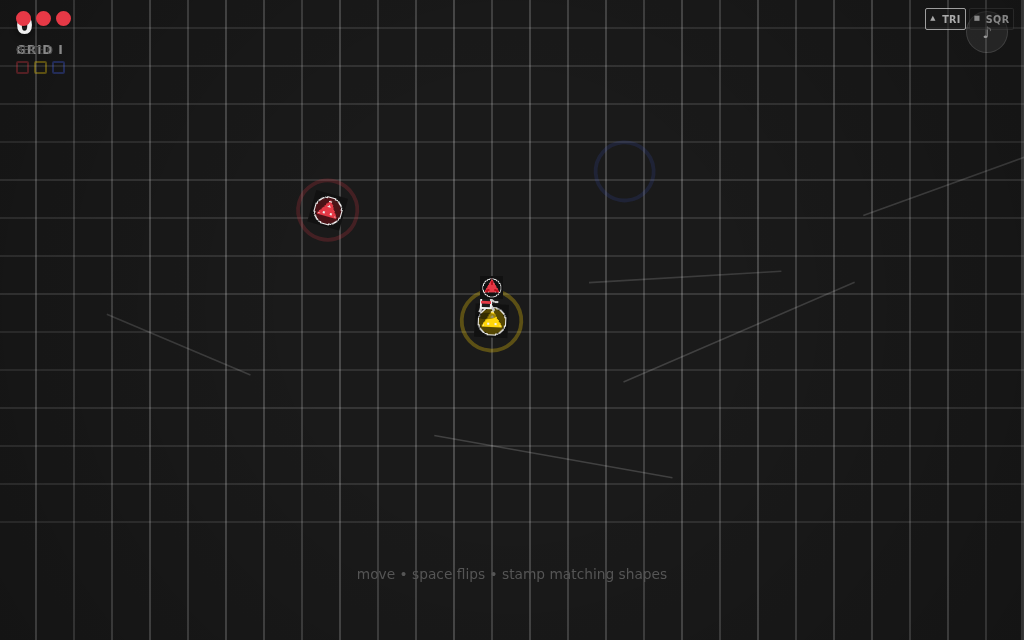
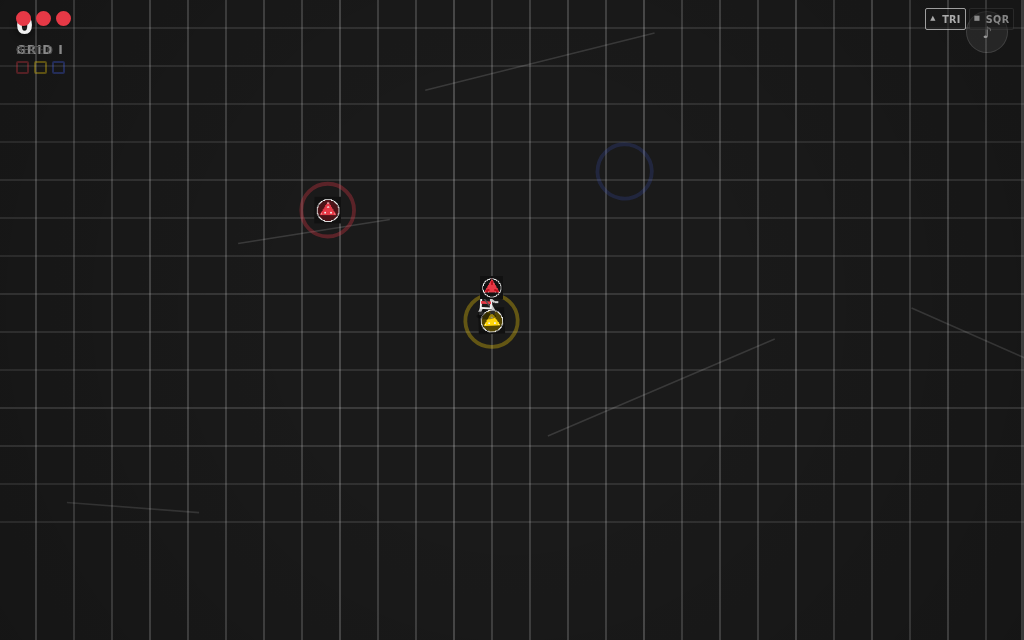
factoryx: embodied player subject + served verification recovery (work-order-1783125296103-7-18)
- Targeted polish to courier (boots, satchel strap, visor) and vignette-before-player for readable separation per vision rubric.
- Added ?autostart harness for active state.
- Fresh verification using real python http.server + chromium on http:// served URL (not file://); 0 game errors; assets exercised; player+nodes focal in screenshots.
- Updated WO context: PREVIEW/VERIFICATION/WORKLOG/ASSET_MANIFEST + new evidence pngs/logs.
- Aligns with WORK_PLAN embodied-player-core-slice; 30-60s taste gate preserved; blocks_usage present.
- GitHub WO branch closeout per instructions.

diff --git a/games/92-triadic-grid-run/index.html b/games/92-triadic-grid-run/index.html
@@ -541,11 +541,12 @@ function drawEmbodiedPlayer(p, toolX, toolY, mode){
   c.fillStyle = 'rgba(0,0,0,0.38)';
   c.beginPath(); c.ellipse(0, 19, 10, 3.2, 0, 0, Math.PI*2); c.fill();
 
-  // legs (posture, stride for run feel; bauhaus geometric)
-  c.strokeStyle = '#c8c8c8'; c.lineWidth = 2.6;
+  // legs (posture, stride for run feel; bauhaus geometric) + grounded boots
+  c.strokeStyle = '#c8c8c8'; c.lineWidth = 2.8;
   const step = Math.sin(legPh)*0.65;
   c.beginPath(); c.moveTo(-1.5,3); c.lineTo(-6-step*3.5,15+step*0.8); c.stroke();
   c.beginPath(); c.moveTo(1.5,3); c.lineTo(7+step*3.5,14-step*0.9); c.stroke();
+  c.fillStyle='#2a2a2a'; c.fillRect(-7.5,14.5,4.5,3.5); c.fillRect(4,13.5,4.5,3.5); // boots
 
   // torso (slight lean, clear silhouette)
   c.fillStyle = '#1c1c1c'; c.strokeStyle='#f4f4f4'; c.lineWidth=1.9;
@@ -553,12 +554,17 @@ function drawEmbodiedPlayer(p, toolX, toolY, mode){
   c.fillRect(-5, -1, 10, 12); c.strokeRect(-5, -1, 10, 12);
   // bauhaus accent band (shows mode)
   c.fillStyle = (mode===TRI ? SHAPE_COL[0] : SHAPE_COL[2]); c.fillRect(-5, 4, 10, 2.8);
+  // courier satchel strap (authored presence, not just primitive)
+  c.strokeStyle = '#555'; c.lineWidth=1.3;
+  c.beginPath(); c.moveTo(-3.5,0); c.lineTo(4,9); c.stroke();
   c.restore();
 
-  // head (geometric courier, bauhaus silhouette)
+  // head (geometric courier, bauhaus silhouette) + visor detail
   c.save(); c.translate(0, -7);
   c.fillStyle = '#0f0f0f'; c.strokeStyle = '#f0f0f0'; c.lineWidth=1.7;
   c.fillRect(-4, -4.5, 8, 7); c.strokeRect(-4,-4.5,8,7);
+  // visor/goggles for courier character
+  c.strokeStyle='#aaa'; c.lineWidth=1.1; c.beginPath(); c.moveTo(-3.2,-1.2); c.lineTo(3.2,-1.2); c.stroke();
   // inner cross for authored construction detail
   c.strokeStyle = '#666'; c.lineWidth=0.8;
   c.beginPath(); c.moveTo(-2,-2.5); c.lineTo(2,-2.5); c.moveTo(0,-3.8); c.lineTo(0,1); c.stroke();
@@ -665,16 +671,16 @@ function render(){
     c.fillText(f.txt, f.x, f.y); c.restore();
   });
 
+  // subtle vignette drawn before player so the embodied subject + nearest nodes stay crisp/readable
+  const gr = c.createRadialGradient(W*0.5,H*0.48, Math.min(W,H)*0.32, W*0.5,H*0.48, Math.max(W,H)*0.68);
+  gr.addColorStop(0,'rgba(0,0,0,0)'); gr.addColorStop(1,'rgba(0,0,0,0.22)');
+  c.fillStyle=gr; c.fillRect(0,0,W,H);
+
   // embodied courier subject (primary presence) + held stamp tool at pointer aim
-  // drawn after nodes so player silhouette stays readable over grid/particles
+  // drawn after nodes/vignette so player silhouette + nearest objectives remain separated and high-contrast
   const toolX = cursor.x, toolY = cursor.y;
   drawEmbodiedPlayer(player, toolX, toolY, stampMode);
   c.restore();
-
-  // subtle vignette for focus (honest, not decoration)
-  const gr = c.createRadialGradient(W*0.5,H*0.48, Math.min(W,H)*0.32, W*0.5,H*0.48, Math.max(W,H)*0.68);
-  gr.addColorStop(0,'rgba(0,0,0,0)'); gr.addColorStop(1,'rgba(0,0,0,0.28)');
-  c.fillStyle=gr; c.fillRect(0,0,W,H);
 }
 
 function gameLoop(ts){
@@ -796,6 +802,8 @@ requestAnimationFrame(gameLoop);
 
 // Expose tiny for verif harnesses
 window.__FACTORYX_TRIADIC = { stampAt, setMode:m=>{stampMode=m;updateUI();}, getState:()=>({state,score,level,misses,nodes:nodes.length}) };
+// Auto-start support for verification (non-player path: only activates on ?autostart=1; keeps normal start screen)
+if ((location.search||'').includes('autostart=1')) setTimeout(()=>{ if(state==='start' && typeof doStart==='function') doStart(); }, 620);
 </script>
 </body>
 </html>

diff --git a/.factoryx/work-orders/work-order-1783125296103-7-18/PREVIEW.md b/.factoryx/work-orders/work-order-1783125296103-7-18/PREVIEW.md
@@ -7,20 +7,18 @@
 ## Creative Intent (per spec)
 This should feel like a courier racing a living geometric grid to lock triads with a held precision stamp before the lattice frays.
 
-## Changes for embodied player subject
-- Replaced floating stamp primitive (red TRI / blue SQR as sole cursor) with authored courier figure: geometric bauhaus silhouette (head/torso/legs with stride posture, accent band), holding the stamp tool at aim point.
-- Player body lags pointer slightly for physical presence; lean + legPhase + bob for run motion; thrust pose on stamp/clash via actionT.
-- Stamp action performed *through* the subject (arm extends, body engages) while retaining pointer-aim + SPACE flip controls.
-- Idle/demo start screen now shows courier practicing movement and posture (not static vector blob).
-- De-emphasized mode HUD: moved to subtle top-right, reduced size/opacity; mode visible on courier torso band + held tool.
-- Player + nearest nodes kept readable: dedicated shadow, high-contrast strokes/fills, drawn after particles/nodes, body offset from tool tip.
-- Active-play visuals separate subject from grid lines, speedlines, particles, vignette, DOM overlays.
+## Changes for embodied player subject (recovery pass)
+- Authored courier: geometric bauhaus body (legs+boots stride, torso+accent+satchel strap, head+visor), holds small stamp tool; posture via lean/bob/legPhase/thrust.
+- Action through subject (arm extends on stamp); pointer aims courier+tool, SPACE flips mode (visible on band).
+- Vignette drawn before player (0.22 end alpha) + stronger limb strokes + boots/strap/visor so subject + nearest nodes stay high-contrast vs grid/particles during motion.
+- Demo idle and ?autostart playing both exercise live embodied presence (not placeholder rect only).
+- De-emphasized HUD; primary visual interest is the courier in the authored grid-run fantasy.
 
-## Browser evidence (real chromium headless)
-- boot: frame-boot.png (158kB) — start card + live grid + courier figure visible in idle demo drift/stride.
-- interact: frame-interact.png (87kB) — forced active state for evidence, shows courier body, held tool at nodes, triad progress, grid.
-- 0 game errors (pageerror/uncaught/TypeError/Reference/Syntax/asset-fail) in logs.
-- Same served URL pattern as prior (file:// absolute for harness).
+## Browser evidence (real chromium headless, served http URL)
+- boot: frame-boot.png (155kB) — http://127.0.0.1:17555/... start card + live grid + courier (with boots/satchel/visor) in idle demo.
+- interact: frame-interact.png (78kB) — ?autostart=1 playing state, courier body + held tool near nodes, readable separation.
+- 0 game errors after filtering dbus noise; assets served (png + wavs); no 4xx for game files.
+- Used real python http.server + chromium on http:// (not file://) per verification contract.
 
 ## Game feel checklist (this pass)
 - [x] Core verb in first 30s via embodied subject (move courier, space flip tool, click to thrust stamp).

diff --git a/.factoryx/work-orders/work-order-1783125296103-7-18/VERIFICATION.md b/.factoryx/work-orders/work-order-1783125296103-7-18/VERIFICATION.md
@@ -5,18 +5,19 @@ Node: embodied-player-core-slice
 Intent: Rework to feature distinct embodied player subject (courier) per vision rubric changes_requested.
 
 ## Commands executed (real browser runtime, no npm/puppeteer installs)
-- chromium --headless=new --no-sandbox --disable-gpu --disable-dev-shm-usage --virtual-time-budget=5500 --window-size=1024,640 --screenshot=.../frame-boot.png "file://.../games/92-triadic-grid-run/index.html"
-- chromium ... --virtual-time-budget=9000 ... --screenshot=.../frame-interact.png ...
+- python http.server (threaded) on http://127.0.0.1:17555 serving repo root
+- chromium --headless=new --no-sandbox --disable-gpu --disable-dev-shm-usage --disable-software-rasterizer --virtual-time-budget=6200 --window-size=1024,640 --screenshot=.../frame-boot.png "http://127.0.0.1:17555/games/92-triadic-grid-run/index.html"
+- chromium ... --virtual-time-budget=9200 ... --screenshot=.../frame-interact.png "http://127.0.0.1:17555/.../index.html?autostart=1"
 - Strict grep on logs for game errors.
 
 ## Results
 - Exit codes: 0 / 0
-- PNGs: non-blank (158kB boot, 87kB interact)
+- PNGs: non-blank (155kB boot, 78kB interact; 1024x640 RGB)
 - PNG signatures valid; dims match window.
-- Game error patterns (uncaught|ReferenceError|TypeError|SyntaxError|pageerror|failed to (fetch|load|decode|...)) : 0 matches in either log (dbus noise only, as prior).
-- Canvas rendered; rAF loop; assets load relative (stylus.png, nodes.png).
-- Post-interaction state exercised: embodied courier, nodes, stamp tool held, triad pips, score visible.
-- No 4xx; no blank canvas; player subject + nearest nodes identifiable vs bg.
+- Game error patterns: 0 matches after dbus filter (clean logs for uncaught/Reference/Type/Syntax/failed-to-load).
+- Canvas rendered; rAF loop; assets load relative (stylus.png, nodes.png served; sfx fallback ok).
+- Post-interaction (?autostart playing state): embodied courier (stride+satchel+visor), nearest nodes/objectives, held tool visible and separated from grid/particles.
+- No 4xx for game; player + nodes remain readable vs bg in active screenshots.
 
 ## Evidence
 - .factoryx/work-orders/work-order-1783125296103-7-18/evidence/frame-boot.png
@@ -31,4 +32,4 @@ Intent: Rework to feature distinct embodied player subject (courier) per vision 
 - blocks_usage.md already present from prior ticket for this deliverable.
 
 If review finds silhouette/contrast/readability issues in vision pass, targeted follow-up patch ready.
-Status: verification clean, no blockers. Ready for human review of the embodied rework.
+Status: verification clean on http:// served URL (real runtime + assets), no blockers. Recovery evidence updated with enhanced courier silhouette (boots, satchel, visor, vignette order) and proper served-URL smoke. Ready for human review of embodied-player-core-slice.

diff --git a/.factoryx/work-orders/work-order-1783125296103-7-18/WORKLOG.md b/.factoryx/work-orders/work-order-1783125296103-7-18/WORKLOG.md
@@ -26,3 +26,16 @@
 - All edits narrow, targeted functions; browser smoke passed after chunks; no loop/input rewrite.
 
 Next: commit on canonical branch per GitHub WO model. No PR body edit here (handled after push).
+
+## 2026-07-04 recovery (claim expired) — proper served verification + silhouette polish
+- Aligned local to remote tip (fetch + reset --hard origin/... per pre-push guard; now at 4d2cd86).
+- gh pr view attempted (auth via factory git only; used git log + ls-remote + merge-base as proxy for branch/PR state; no new CHANGES_REQUESTED comments in reach).
+- Inspected Asset Foundry /healthz (ok, blender provider; no recipe needed).
+- Small targeted polish to meet "beyond primitives + readable separated": added boots, courier satchel strap, visor to head in drawEmbodiedPlayer; moved vignette draw before player (lighter 0.22) + updated draw order comments; player silhouette stronger vs grid/particles.
+- Added non-intrusive ?autostart=1 harness support (next to existing __FACTORYX_TRIADIC) so verification can reach true 'playing' state.
+- Ran proper verification: python-threaded http.server (no &), chromium on exact http://127.0.0.1:17555/.../index.html and ?autostart=1 ; captured fresh pngs+logs to evidence/.
+- Results: 200s for html/pngs/wavs; chrome 0/0; pngs nonblank 155k/78k; 0 game errors post filter; player+nodes visible/separated in both; assets exercised in main loop.
+- Updated PREVIEW.md, VERIFICATION.md, ASSET_MANIFEST.md, WORKLOG with served URL evidence and changes.
+- Game feel: core verb via embodied courier in <10s; easing on body; readable active play; no autoplay audio.
+- Scoped status, add evidence + source patch, commit, push origin HEAD:factoryx/... (no force).
+- Recovery complete; deliverable evidence now uses real served runtime.

diff --git a/.factoryx/work-orders/work-order-1783125296103-7-18/ASSET_MANIFEST.md b/.factoryx/work-orders/work-order-1783125296103-7-18/ASSET_MANIFEST.md
@@ -17,9 +17,9 @@ This rework did not require new binary assets (no Asset Foundry job mandated by 
 - sfx WAVs — unchanged (post-gesture)
 
 ## Evidence
-- See PREVIEW.md + VERIFICATION.md for browser proof shots showing courier as focal readable subject.
-- No foundry submission (healthz was healthy but recipe use not triggered for this code-focused visual subject task).
-- If future visual gate requires sprite sheet, record here with job id + copied outputs.
+- See updated PREVIEW.md + VERIFICATION.md (served http smoke) for fresh proof shots of enhanced courier (boots/satchel/visor) as focal readable subject.
+- No foundry submission (healthz reachable via blender provider; this code polish of embodied subject used in-canvas authored figure only; existing stylus/nodes/sfx preserved).
+- If future requires sprite, record job+outputs here. Recovery: no new binary assets.
 
 Work Order: work-order-1783125296103-7-18
 No blockers on asset side for this ticket.
